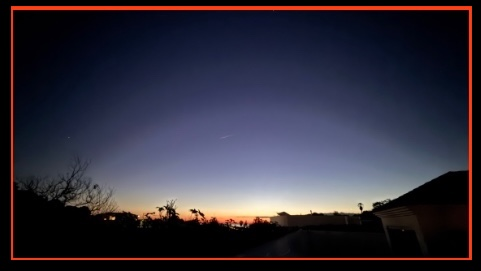
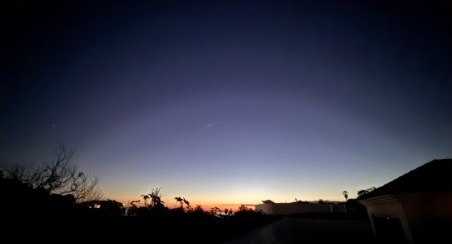
update

Changed region(s): [[0.0, 0.0, 1.0, 0.9754]]

diff --git a/style.css b/style.css
@@ -12,19 +12,41 @@ body {
     padding: 12px;
 }
 
-.shadow-box {
-  
-  width: 300px;
-  padding: 20px;
-  border: 1px solid #fff;
-  background-color: gray;
-  box-shadow: 10px 10px 20px rgba(0, 0, 0, 0.3);
-}
-
+<!-- Header formats - 1 to 4 left aligned-->
 h1 {
-    font-size: 20px;
+    font-size: 24px;
     text-align: left;
-    margin-bottom: 20px;
+    margin-bottom: 24px;
+    letter-spacing: 1px;
+}
+h2 {
+    font-size: 18px;
+    text-align: left;
+    margin-bottom: 18px;
+    letter-spacing: 1px;
+}
+h3 {
+    font-size: 14px;
+    text-align: left;
+    margin-bottom: 14px;
+    letter-spacing: 1px;
+}
+h4 {
+    font-size: 12px;
+    text-align: left;
+    margin-bottom: 12px;
+    letter-spacing: 1px;
+}
+h5 {
+    font-size: 24px;
+    text-align: center;
+    margin-bottom: 1px;
+    letter-spacing: 1px;
+}
+h6 {
+    font-size: 10px;
+    text-align: center;
+    margin-bottom: 1px;
     letter-spacing: 1px;
 }
 
@@ -65,3 +87,27 @@ a {
     color: #66aaff;
     text-decoration: none;
 }
+
+<!-- Text in a box with a shadow -->
+
+.shadow-box {
+  
+  width: 300px;
+  padding: 20px;
+  border: 1px solid #fff;
+  background-color: gray;
+  box-shadow: 10px 10px 20px rgba(0, 0, 0, 0.3);
+}
+
+<!-- Stop multiple audio tracts playing at once -->
+
+const players = document.querySelectorAll("audio");
+
+players.forEach(p => {
+    p.addEventListener("play", () => {
+        players.forEach(other => {
+            if (other !== p) other.pause();
+        });
+    });
+});
+

diff --git a/index.html b/index.html
@@ -13,10 +13,9 @@
     
     <div class="container">
 
-        <h2>The Irorion Projects</h2>
+        <h5>The Irorion Projects</h5>
         <img src="irorion.jpg">
-        
-        <p style="text-align: center;">Early morning(7:38 AM) on Dec 18, 2026, 3 days before the winter solstice</p>
+        <h6>El Hornillo Sunrise 7:38 AM on the winter solstice</h6>
 
         <blockquote>
 
